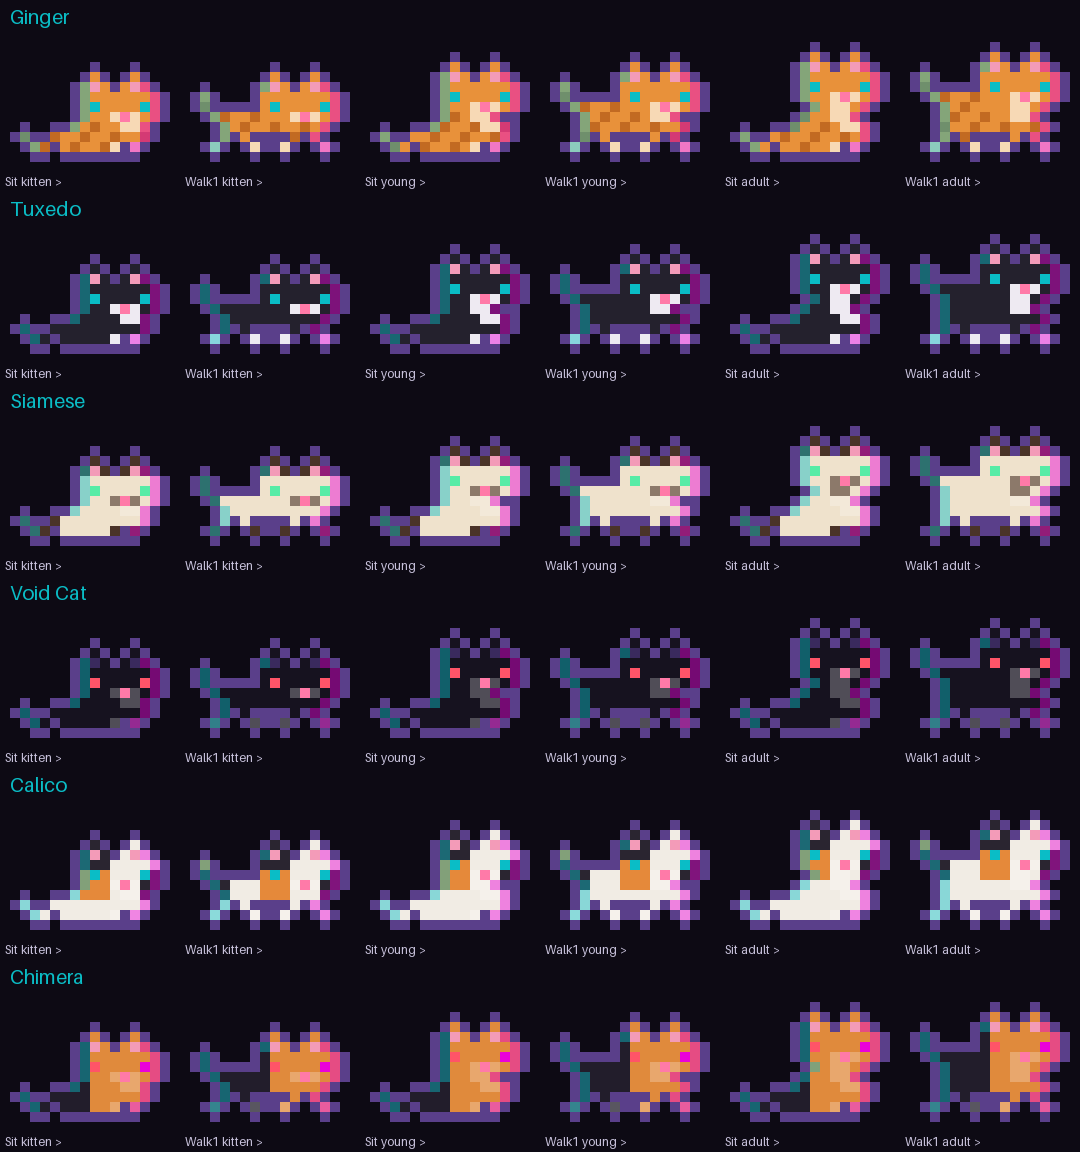
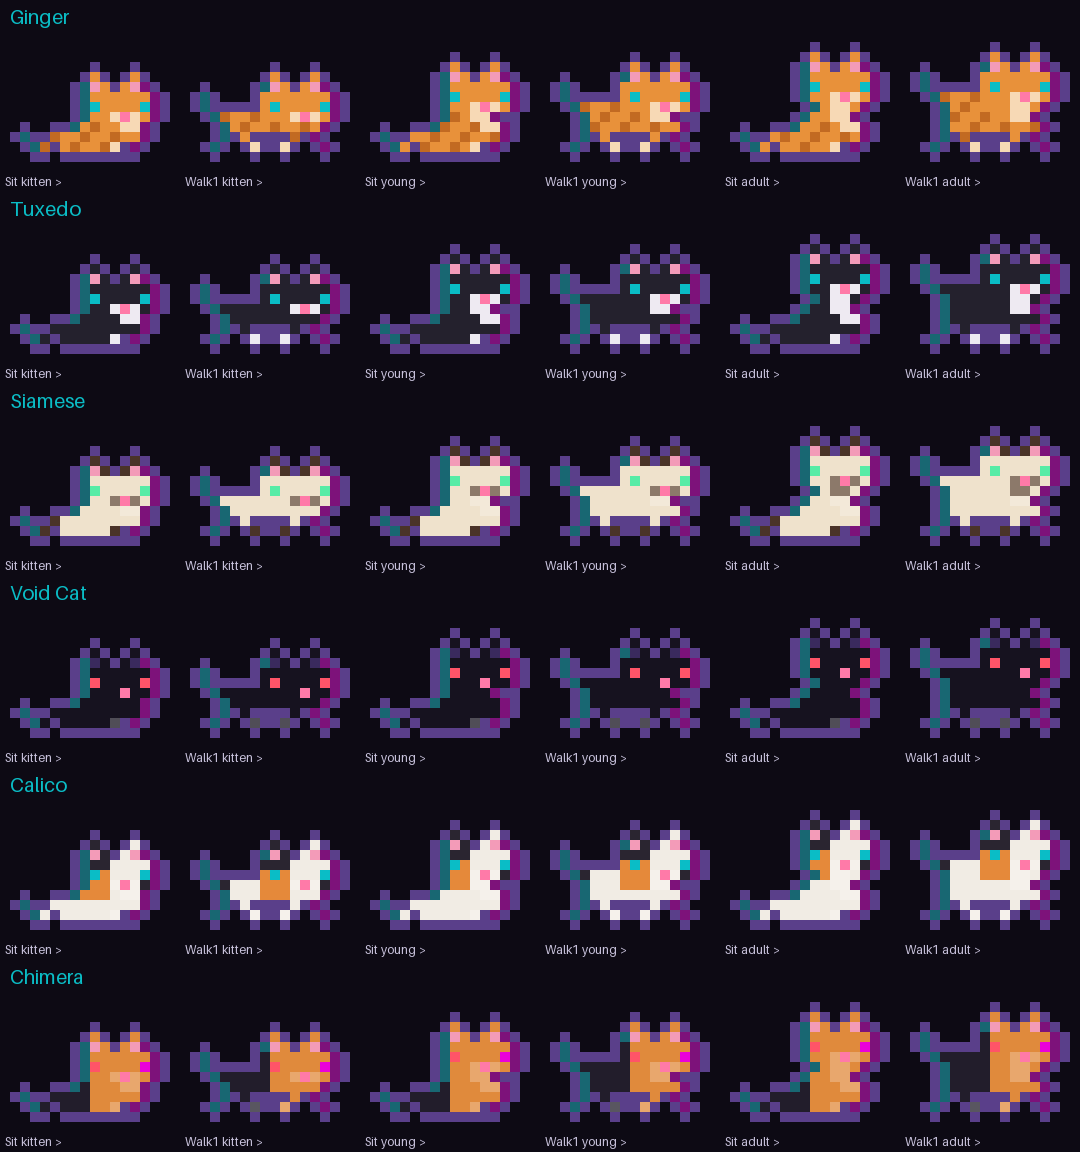
fix: flat rim pixels and a nose-only Void muzzle

diff --git a/rust/src/px/paint.rs b/rust/src/px/paint.rs
@@ -19,6 +19,11 @@ pub(crate) struct CatLook<'a> {
 /// near-black violet of the classic renderer.)
 pub(crate) const OUTLINE: Rgb = Rgb(0x5a, 0x3f, 0x8a);
 
+/// Rim light pixels, flat on every coat (blending turned light and orange coats
+/// olive). These are the cyan / magenta neons at 45% over the Tuxedo coat.
+const RIM_CYAN: Rgb = Rgb(0x18, 0x67, 0x72);
+const RIM_MAGENTA: Rgb = Rgb(0x7d, 0x12, 0x7a);
+
 /// Sprite width incl. outline, every pose and stage.
 pub(crate) const CAT_MAX_W: usize = 16;
 
@@ -77,6 +82,8 @@ fn slot_colour(b: &Breed, look: &CatLook, ctx: &Ctx, s: u8, x: i32, y: i32, muzz
     let mut c = match s {
         b'.' => return None,
         b'h' | b'b' | b't' | b'r' | b'*' => b.base,
+        // Void keeps a plain muzzle: the nose pixel and eyes carry its face.
+        b'l' if b.pattern == Pattern::Void => b.base,
         b'l' | b'a' => light,
         b'i' if b.pattern == Pattern::Void => return Some(pixel::VOID_INNER_EAR),
         b'i' => return Some(pixel::INNER_EAR),
@@ -163,8 +170,8 @@ pub(crate) fn paint(p: Pose, look: &CatLook, facing_right: bool, tail: Tail, bli
         let coat: Vec<usize> = (0..w).filter(|&x| is_coat(slots[at(x, y)])).collect();
         if coat.len() >= 3 {
             let (l, r) = (at(coat[0], y), at(coat[coat.len() - 1], y));
-            out[l] = out[l].map(|c| pixel::mix(c, pixel::NEON_CYAN, 0.45));
-            out[r] = out[r].map(|c| pixel::mix(c, pixel::NEON_MAGENTA, 0.45));
+            out[l] = Some(RIM_CYAN);
+            out[r] = Some(RIM_MAGENTA);
         }
     }
 
